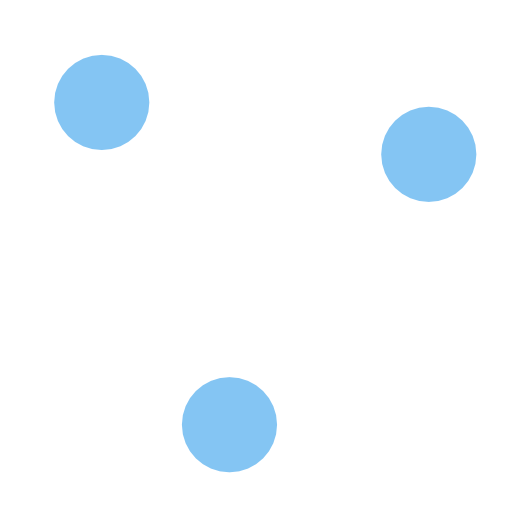
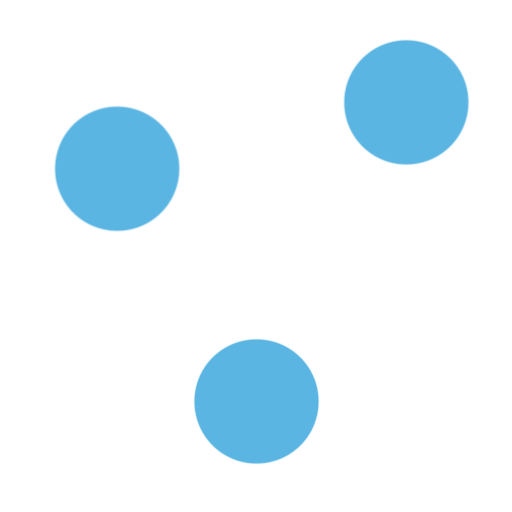
Parallax bubble bg working

Changed region(s): [[0.0938, 0.0938, 0.375, 0.4688], [0.6562, 0.0625, 0.9375, 0.4062], [0.3438, 0.6562, 0.625, 0.9375]]

diff --git a/assets/css/style.css b/assets/css/style.css
@@ -18,25 +18,37 @@ body {
 }
 
 #bg1, #bg2, #bg3 {
+/* #bg1 { */
 	z-index:50;
 	top:0;
 	left:0;
 	width:100%;
 	height:100%;
-	background:url('../img/bubbles.png') repeat 0 0;
+	background:url('../img/bubbles.png') repeat;
 	opacity: 0.3;
 }
 
+/* #bg1 {
+	z-index:50;
+	top:0;
+	left:0;
+	width:100%;
+	height:100%;
+	background:url('../img/bubble_blue.png') repeat 0 0;
+	opacity: 0.3;
+} */
+
+
 #bg2 {
 	z-index:49;
-	background-image:url('../img/bubbles2.png');
+	background-image:url('../img/bubble_dblue.png');
 	opacity: 0.2;
 }
 
 #bg3 {
 	z-index:48;
-	background-image:url('../img/bubbles3.png');
-	opacity: 0.4;
+	background-image:url('../img/bubble_white.png');
+	opacity: 0.2;
 }
 
 .skrollr-body {

diff --git a/index.html b/index.html
@@ -11,9 +11,9 @@
 </head>
 
 <body>
-	<div id="bg1" data-0="background-position:0px 0px;" data-end="background-position:-500px -10000px;"></div>
+	<div id="bg1" data-0="background-position:0px 0px;" data-end="background-position:0px -4000px;"></div>
 	<div id="bg2" data-0="background-position:0px 0px;" data-end="background-position:-500px -8000px;"></div>
-	<div id="bg3" data-0="background-position:0px 0px;" data-end="background-position:-500px -6000px;"></div>
+	<div id="bg3" data-0="background-position:0px 0px;" data-end="background-position:-500px -15000px;"></div>
 
 	<div class="skrollr-body">
 		<!-- Generator: Adobe Illustrator 24.0.3, SVG Export Plug-In . SVG Version: 6.00 Build 0)  -->
